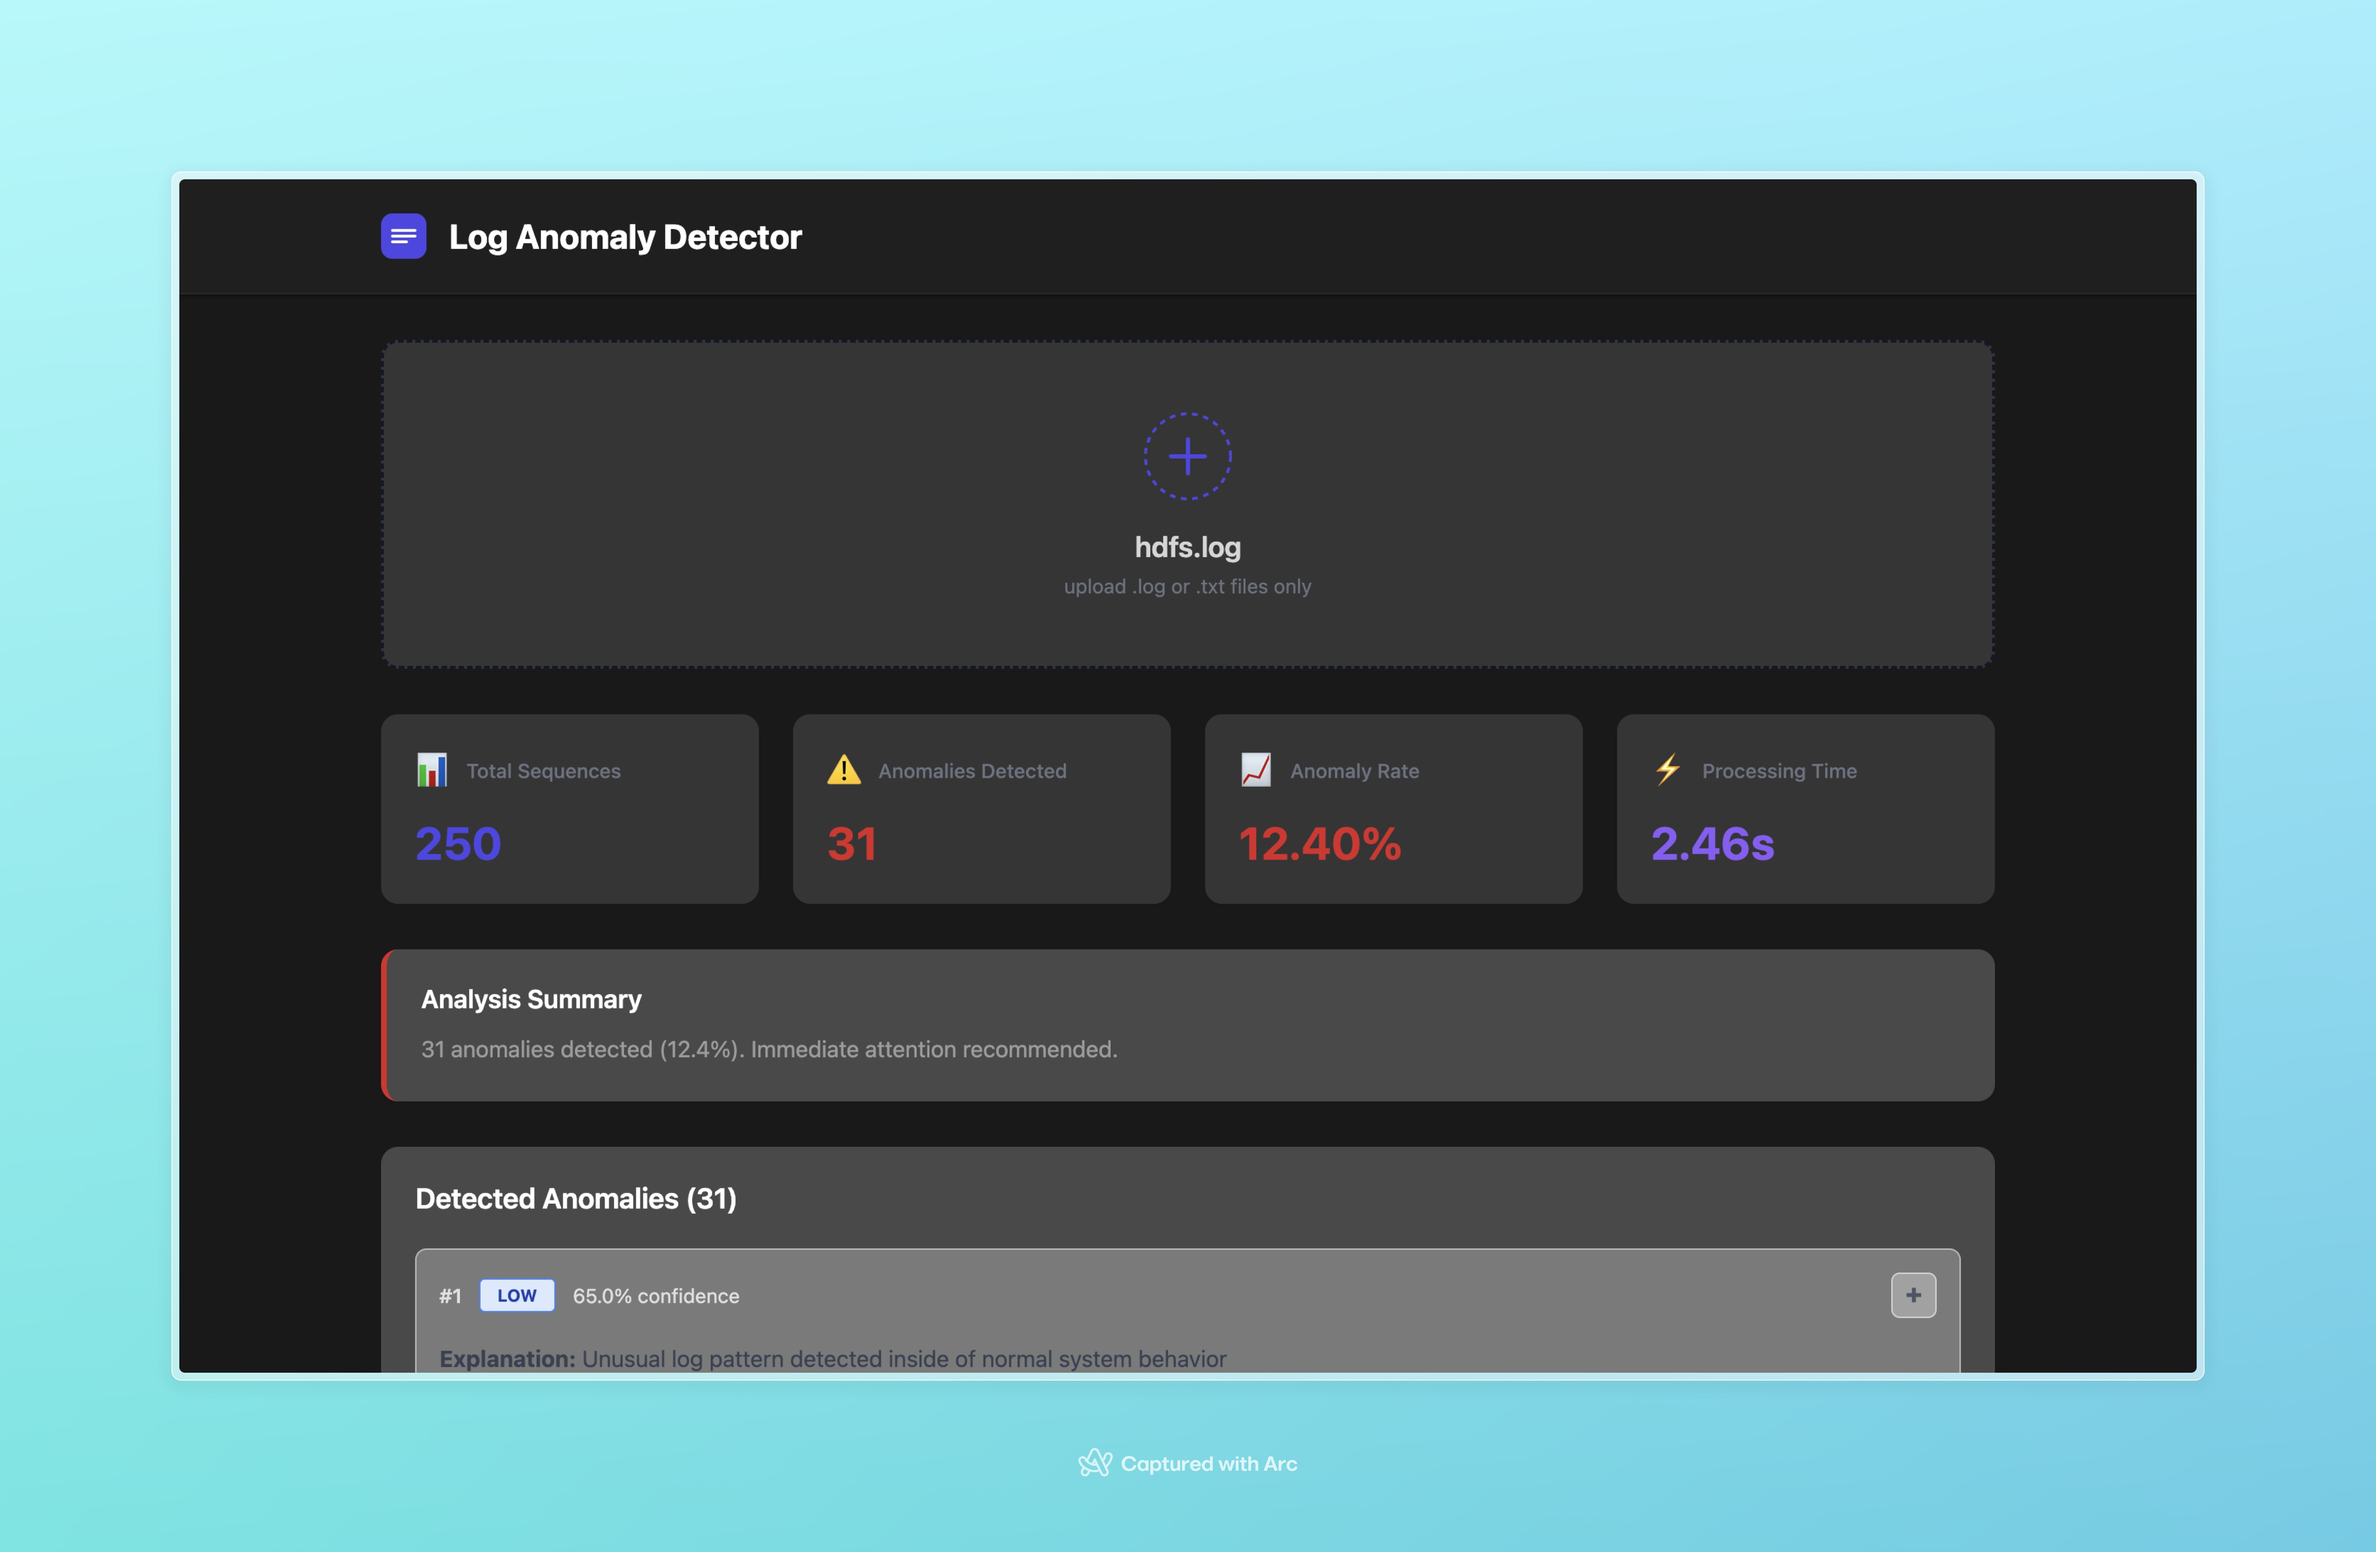
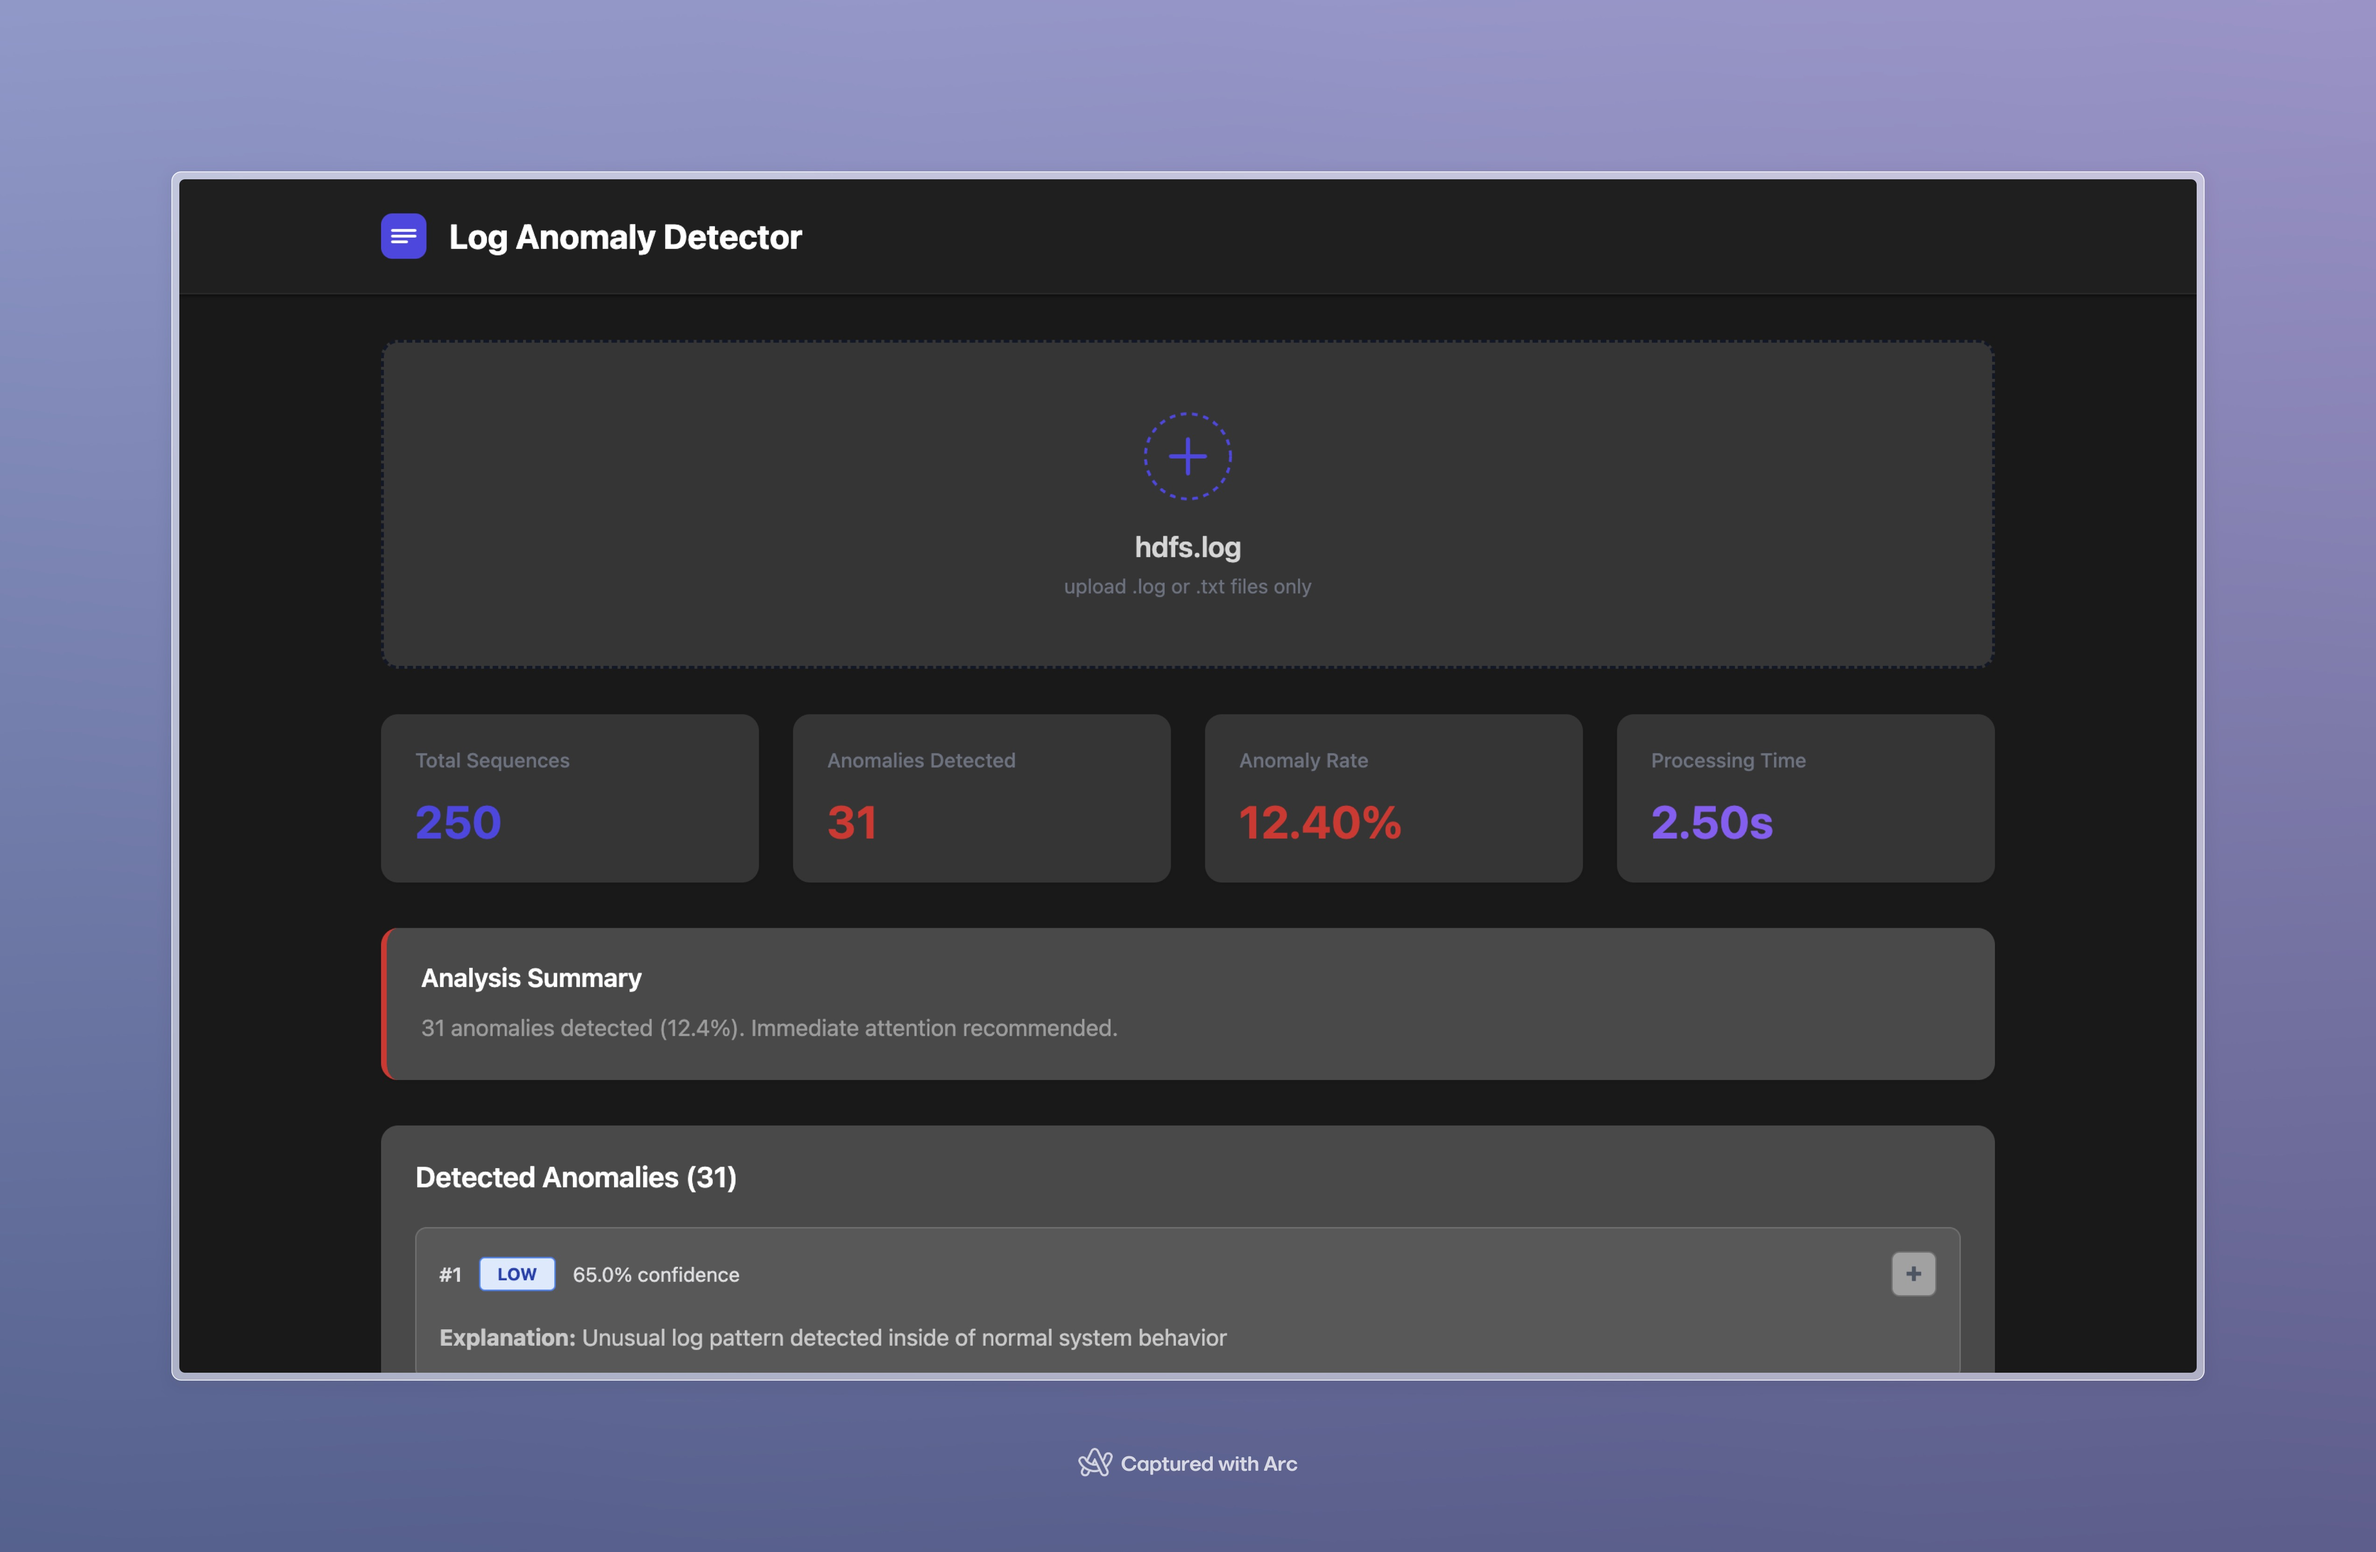
update styles

diff --git a/ui/src/App.js b/ui/src/App.js
@@ -142,7 +142,7 @@ const StatsCards = ({ results }) => {
       label: "Anomalies Detected",
       value: results.anomalies_detected,
       color: results.anomalies_detected > 0 ? "#DC2626" : "#10B981",
-      icon: results.anomalies_detected > 0 ? "⚠" : "✓",
+      icon: results.anomalies_detected > 0 ? "" : "✓",
     },
     {
       label: "Anomaly Rate",
@@ -168,7 +168,7 @@ const StatsCards = ({ results }) => {
       {cards.map((card, index) => (
         <div key={index} style={styles.statCard}>
           <div style={styles.statCardHeader}>
-            <span style={styles.statIcon}>{card.icon}</span>
+            {/* <span style={styles.statIcon}>{card.icon}</span> */}
             <span style={styles.statLabel}>{card.label}</span>
           </div>
           <div style={{ ...styles.statValue, color: card.color }}>
@@ -576,8 +576,8 @@ const styles = {
   },
 
   anomalyCard: {
-    backgroundColor: "#7a7a7aff",
-    border: "1px solid #bababaff",
+    backgroundColor: "#585858ff",
+    border: "1px solid #6f6f6fff",
     borderRadius: "8px",
     padding: "1rem",
   },
@@ -619,7 +619,7 @@ const styles = {
     width: "32px",
     height: "32px",
     borderRadius: "6px",
-    border: "1px solid #D1D5DB",
+    border: "1px solid #6f6f6fff",
     backgroundColor: "#a1a1a1ff",
     cursor: "pointer",
     fontSize: "1.25rem",
@@ -637,7 +637,7 @@ const styles = {
   },
 
   explanation: {
-    color: "#374151",
+    color: "#c9c9c9ff",
     lineHeight: "1.6",
   },
 

diff --git a/ui/src/index.css b/ui/src/index.css
@@ -5,5 +5,5 @@
 }
 
 body {
-  background: #000;
+  background: #191919;
 }

diff --git a/ui/README.md b/ui/README.md
@@ -1,70 +1,1 @@
-# Getting Started with Create React App
-
-This project was bootstrapped with [Create React App](https://github.com/facebook/create-react-app).
-
-## Available Scripts
-
-In the project directory, you can run:
-
-### `npm start`
-
-Runs the app in the development mode.\
-Open [http://localhost:3000](http://localhost:3000) to view it in your browser.
-
-The page will reload when you make changes.\
-You may also see any lint errors in the console.
-
-### `npm test`
-
-Launches the test runner in the interactive watch mode.\
-See the section about [running tests](https://facebook.github.io/create-react-app/docs/running-tests) for more information.
-
-### `npm run build`
-
-Builds the app for production to the `build` folder.\
-It correctly bundles React in production mode and optimizes the build for the best performance.
-
-The build is minified and the filenames include the hashes.\
-Your app is ready to be deployed!
-
-See the section about [deployment](https://facebook.github.io/create-react-app/docs/deployment) for more information.
-
-### `npm run eject`
-
-**Note: this is a one-way operation. Once you `eject`, you can't go back!**
-
-If you aren't satisfied with the build tool and configuration choices, you can `eject` at any time. This command will remove the single build dependency from your project.
-
-Instead, it will copy all the configuration files and the transitive dependencies (webpack, Babel, ESLint, etc) right into your project so you have full control over them. All of the commands except `eject` will still work, but they will point to the copied scripts so you can tweak them. At this point you're on your own.
-
-You don't have to ever use `eject`. The curated feature set is suitable for small and middle deployments, and you shouldn't feel obligated to use this feature. However we understand that this tool wouldn't be useful if you couldn't customize it when you are ready for it.
-
-## Learn More
-
-You can learn more in the [Create React App documentation](https://facebook.github.io/create-react-app/docs/getting-started).
-
-To learn React, check out the [React documentation](https://reactjs.org/).
-
-### Code Splitting
-
-This section has moved here: [https://facebook.github.io/create-react-app/docs/code-splitting](https://facebook.github.io/create-react-app/docs/code-splitting)
-
-### Analyzing the Bundle Size
-
-This section has moved here: [https://facebook.github.io/create-react-app/docs/analyzing-the-bundle-size](https://facebook.github.io/create-react-app/docs/analyzing-the-bundle-size)
-
-### Making a Progressive Web App
-
-This section has moved here: [https://facebook.github.io/create-react-app/docs/making-a-progressive-web-app](https://facebook.github.io/create-react-app/docs/making-a-progressive-web-app)
-
-### Advanced Configuration
-
-This section has moved here: [https://facebook.github.io/create-react-app/docs/advanced-configuration](https://facebook.github.io/create-react-app/docs/advanced-configuration)
-
-### Deployment
-
-This section has moved here: [https://facebook.github.io/create-react-app/docs/deployment](https://facebook.github.io/create-react-app/docs/deployment)
-
-### `npm run build` fails to minify
-
-This section has moved here: [https://facebook.github.io/create-react-app/docs/troubleshooting#npm-run-build-fails-to-minify](https://facebook.github.io/create-react-app/docs/troubleshooting#npm-run-build-fails-to-minify)
+# Anomaly Detection UI

diff --git a/README.md b/README.md
@@ -8,7 +8,7 @@ A system for detecting anomalies in distributed system logs using fine-tuned tra
 
 This project implements an intelligent anomaly detection system for analyzing log files from distributed systems (HDFS). Unlike traditional rule-based approaches, it uses **dual transformer models** to not only detect anomalies but also provide human-readable explanations for each detection.
 
-## 🏗 Architecture
+## Architecture
 
 ```
 ┌─────────────────┐
@@ -140,8 +140,8 @@ AWS CLI
 1. **Clone the repository**
 
 ```bash
-git clone https://github.com/yourusername/log-anomaly-detection.git
-cd log-anomaly-detection
+git clone https://github.com/DevelopedBy-Siva/fine-tuned-anomaly-detection.git
+cd fine-tuned-anomaly-detection
 ```
 
 2. **Set up Python environment**
@@ -344,10 +344,6 @@ Get model statistics and configuration
 ![EC2 Instance](images/ec2.png)
 
 ![ECR Repository](images/ecr.png)
-
-### Application Interface
-
-![Dashboard](images/app.jpeg)
 
 ### Docker Process
 
